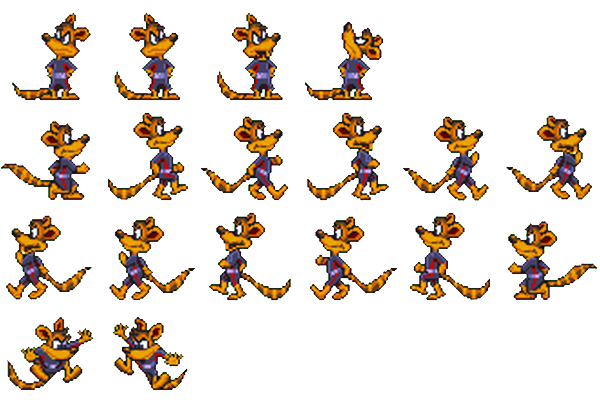
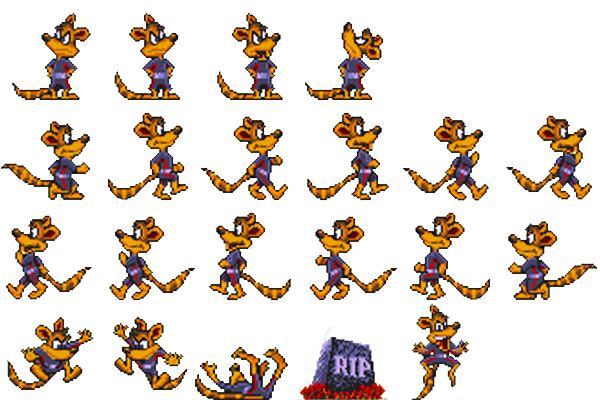
some pics

Changed region(s): [[0.33, 0.84, 0.66, 1.0], [0.69, 0.75, 0.78, 1.0]]

diff --git a/scripts/main.js b/scripts/main.js
@@ -39,11 +39,6 @@ JumpGame.prototype = {
 
     preload: function () {
 
-        //  We need this because the assets are on Amazon S3
-        //  Remove the next 2 lines if running locally
-        //this.load.baseURL = 'http://files.phaser.io.s3.amazonaws.com/codingtips/issue003/';
-        //this.load.crossOrigin = 'anonymous';
-
         this.load.image('trees', 'assets/trees.png');
         this.load.image('background', 'assets/background-forest.png');
         this.load.image('platform', 'assets/platform.png');
@@ -103,7 +98,9 @@ JumpGame.prototype = {
         this.player.animations.add('right', [6, 7, 8 , 9 , 10, 11], 7, true);
         //this.player.animations.add('turn', [0], 20, false);
         this.player.animations.add('left', [12, 13, 14, 15,16,17], 7, true);
-        //this.player.animation.add('up',[12,13], 2, true);
+        this.player.animations.add('down',[20,20], 2, true);
+        this.player.animations.add('dead',[21,21], 2, true);
+
 
         this.camera.follow(this.player);
 
@@ -132,14 +129,16 @@ JumpGame.prototype = {
 
     },
 
-    setFriction: function (player, platform) {
-
-        if (platform.key === 'ice-platform')
-        {
-            player.body.x -= platform.body.x - platform.body.prev.x;
-        }
-
-    },
+    // sliding
+    //
+    //setFriction: function (player, platform) {
+    //
+    //    if (platform.key === 'ice-platform')
+    //    {
+    //        player.body.x -= platform.body.x - platform.body.prev.x;
+    //    }
+    //
+    //},
 
     update: function () {
 
@@ -193,8 +192,7 @@ JumpGame.prototype = {
             }
         }
 
-        //  No longer standing on the edge, but were
-        //  Give them a 250ms grace period to jump after falling
+        //  Period to jump after falling
         if (!standing && this.wasStanding)
         {
             this.edgeTimer = this.time.time + 250;
@@ -219,12 +217,18 @@ JumpGame.prototype = {
             console.log('died');
             counter = 0;
             lives--;
+            this.player.play('down');
+
             livesText.text = 'lives: ' + lives;
+
             if (lives === 0)
             {
                 console.log('game over');
                 introText.text = 'Game Over!';
                 introText.visible = true;
+
+                this.player.play('dead');// rip animation
+
                 this.player.kill();
                 //this.button.visible = true;
                 //game.state.restart();
